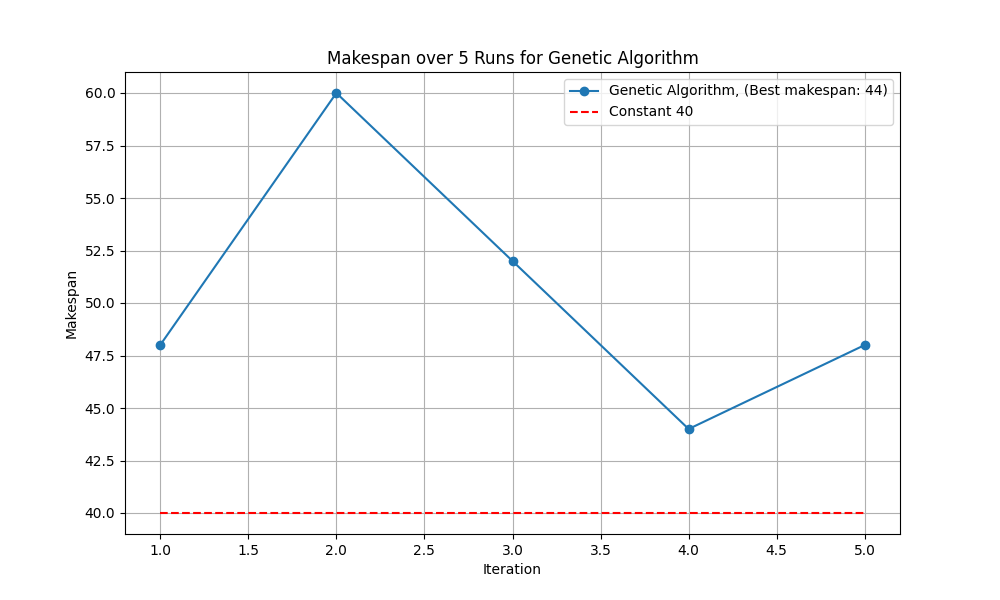
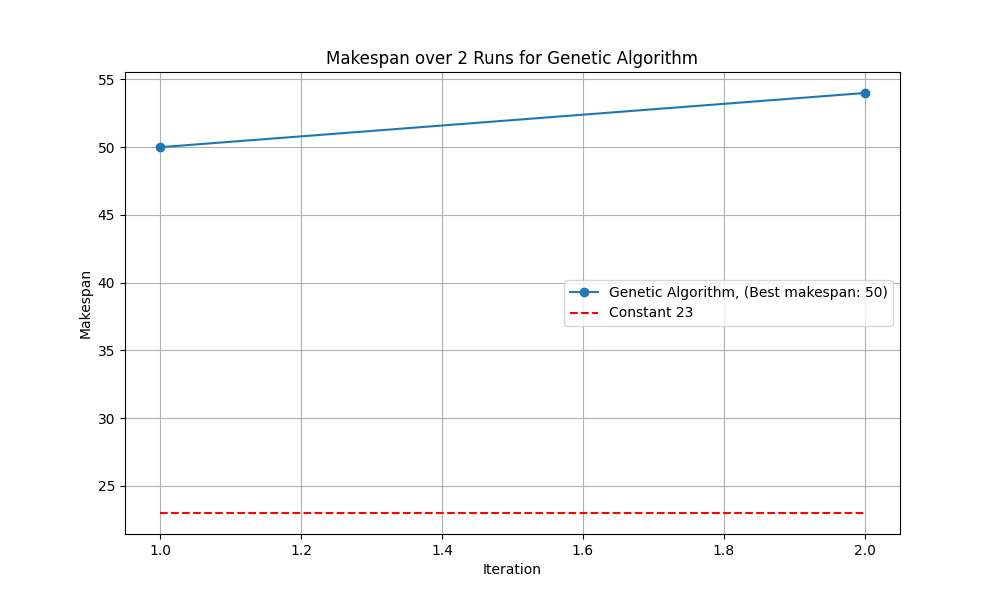
Added endpoint for compare settings

diff --git a/controllers/PythonController.cs b/controllers/PythonController.cs
@@ -375,4 +375,33 @@ public class PythonServiceController : ControllerBase
             return StatusCode(500, "An error occurred while getting the image");
         }
     }
+
+    // PUT endpoint to save compare settings
+    [HttpPut("saveCompareSettings")]
+    public async Task<IActionResult> SaveCompareSettings([FromBody] List<int> numbers)
+    {
+        try
+        {
+            if (numbers == null)
+            {
+                return BadRequest("Number list cannot be null");
+            }
+            
+            // Combine the numbers into a string
+            string numberString = $"{numbers[0]} {numbers[1]}";
+            
+            // Define the file path
+            string filePath = Path.Combine(_env.ContentRootPath, "pythonService", "compare_settings.txt");
+            
+            // Write the string to the file
+            await System.IO.File.WriteAllTextAsync(filePath, numberString);
+            
+            return Ok("Compare settings succesfully applied");
+        }
+        catch (Exception ex)
+        {
+            Console.WriteLine($"Error saving number pair: {ex.Message}");
+            return StatusCode(500, "An error occurred while saving the number pair");
+        }
+    }
 }

diff --git a/pythonService/main_compare.py b/pythonService/main_compare.py
@@ -128,6 +128,14 @@ with open('pythonService/compare_algorithms.txt', 'r') as file:
     for line in file:
         heuristics = line.split()
 
+compare_settings: List[str] = []
+with open('pythonService/compare_settings.txt', 'r') as file:
+    #read by lines
+    for line in file:
+        compare_settings = line.split()
+
+nrRuns: int = int(compare_settings[0])
+optimalValue: int = int(compare_settings[1])
 
 for heuristic in heuristics:
-    save_chart_results(heuristic, 5, 40, scheduler, heuristic_names)
+    save_chart_results(heuristic, nrRuns, optimalValue, scheduler, heuristic_names)
